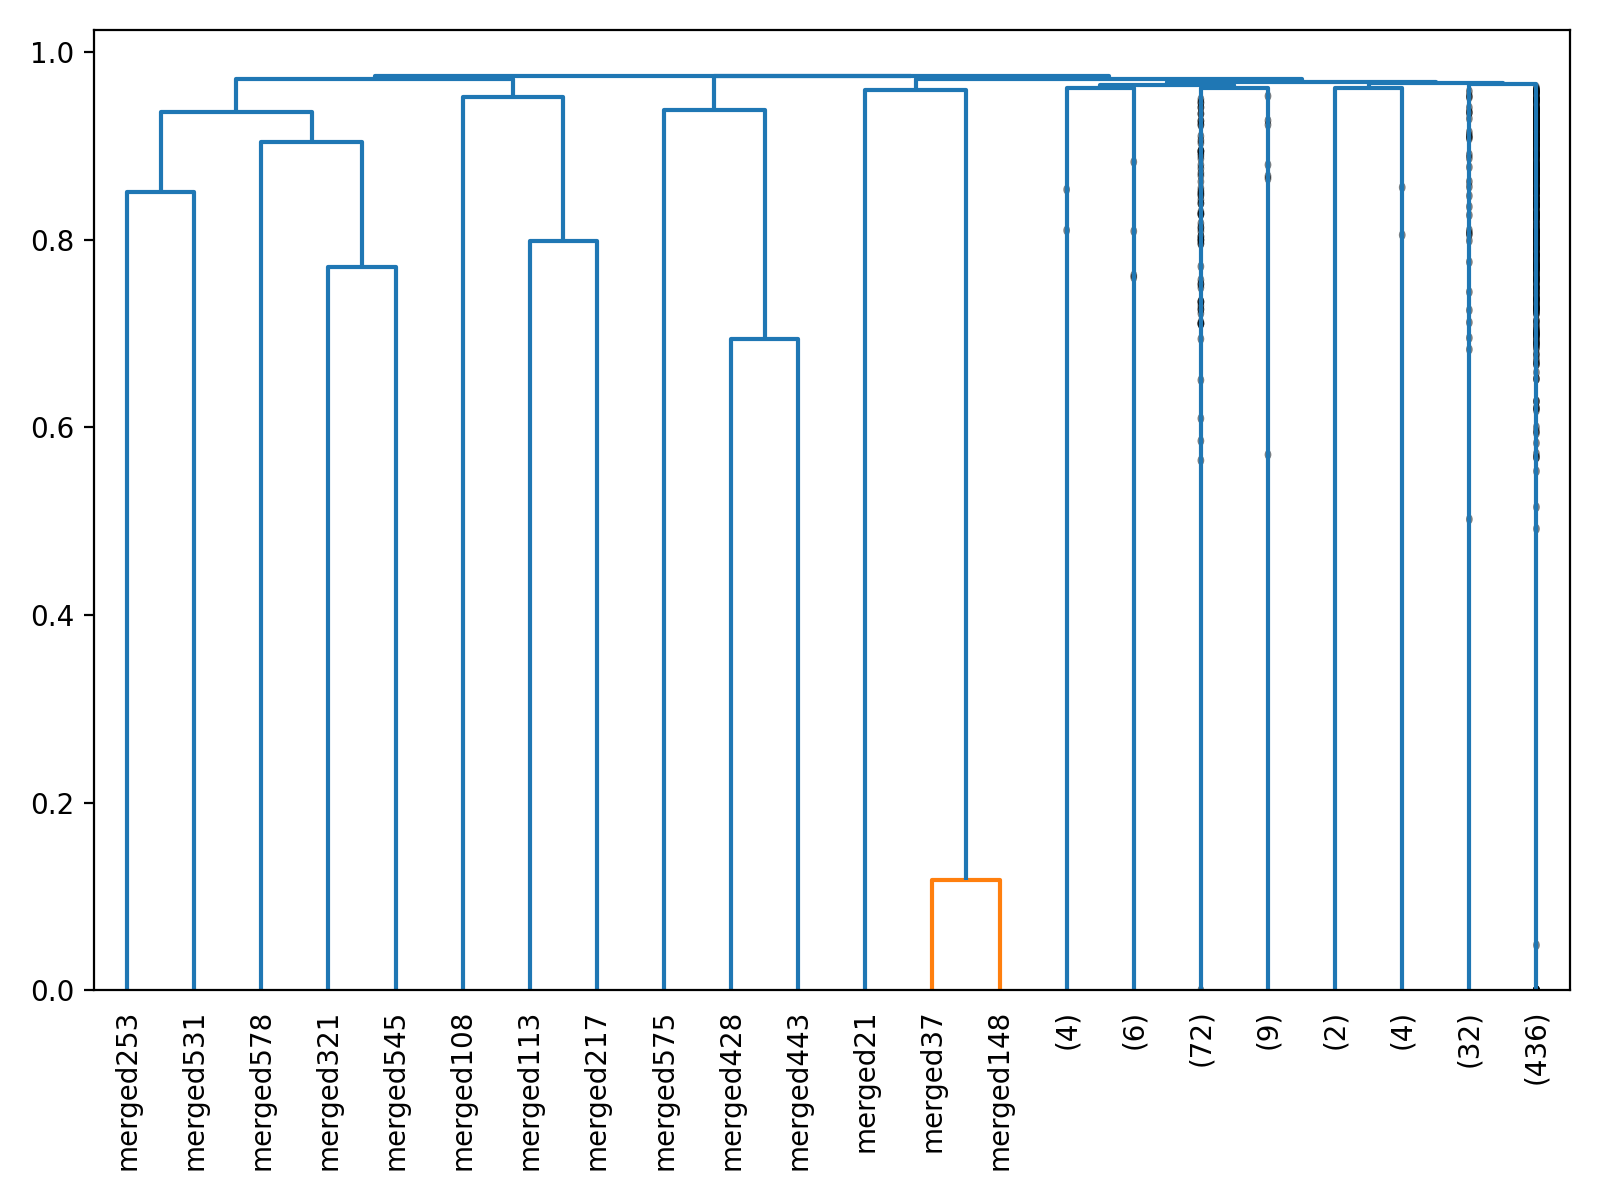
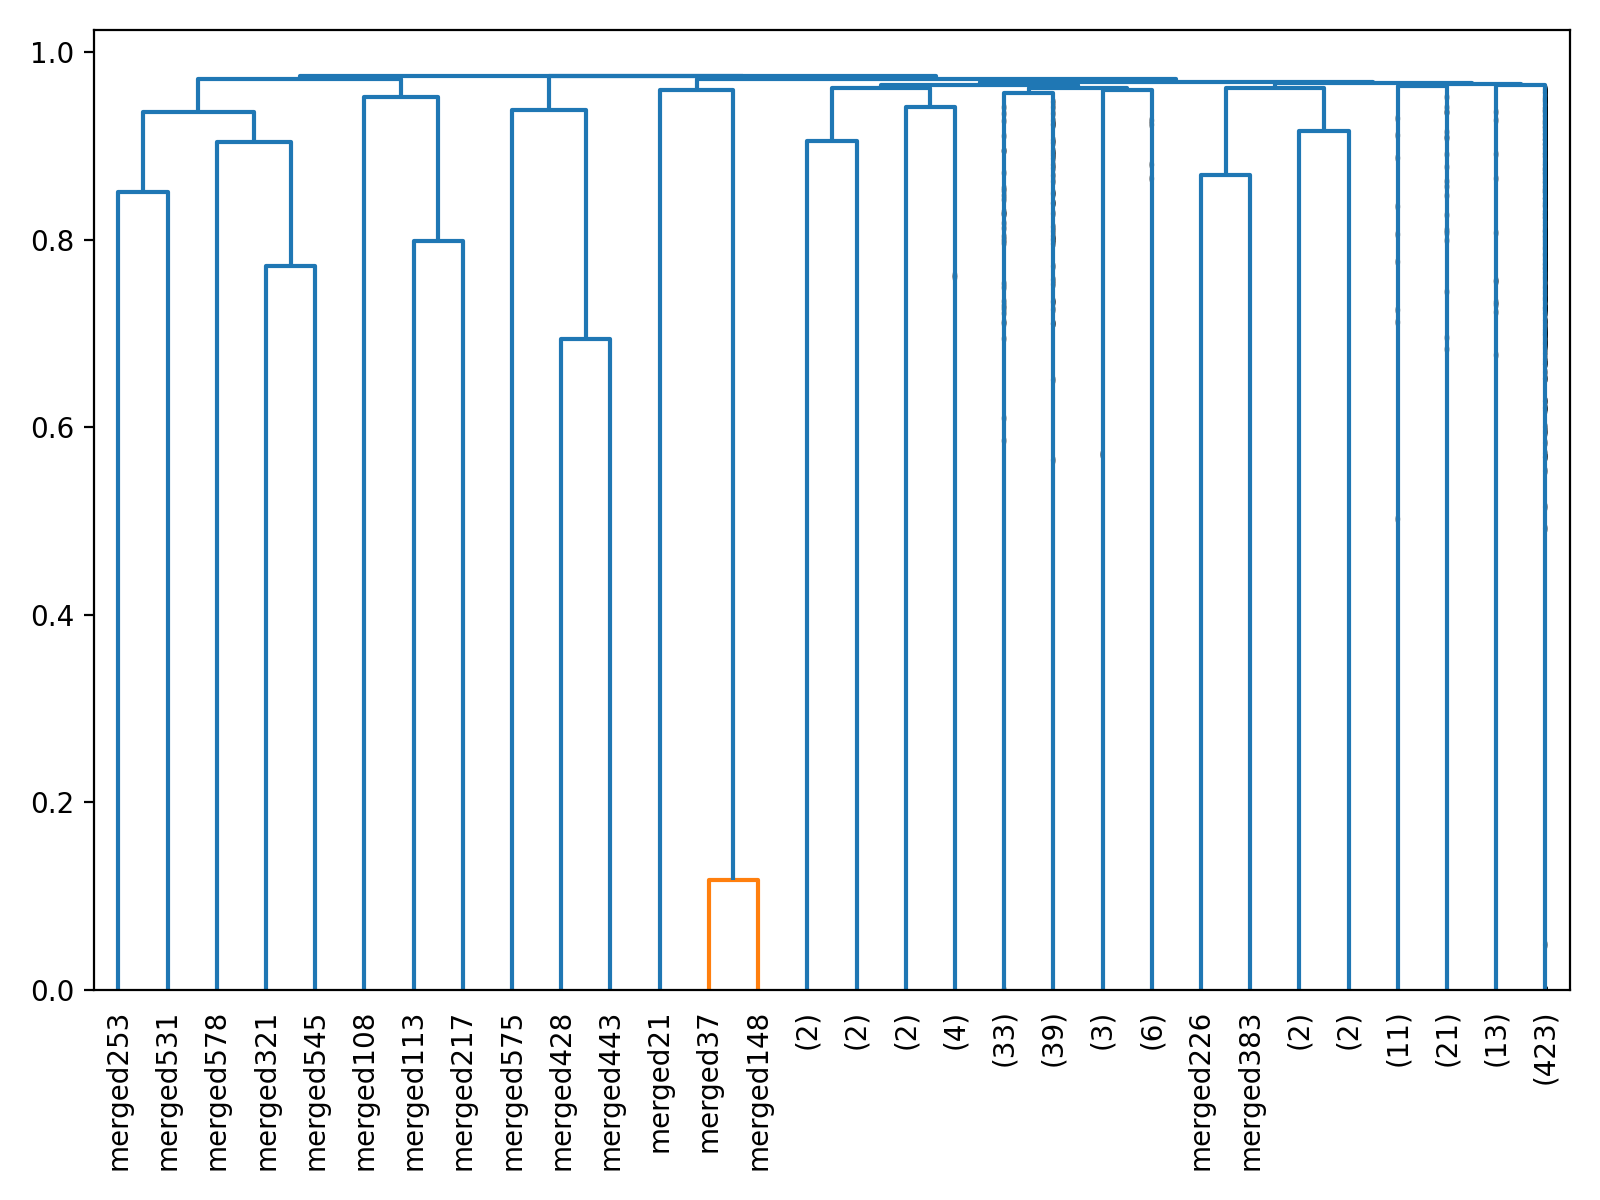
Nivel 6 de profundidad

Changed region(s): [[0.0625, 0.0617, 0.9688, 0.9867], [0.25, 0.185, 0.2812, 0.2158], [0.125, 0.0617, 0.1562, 0.0925]]

diff --git a/utils/clustering/run_all.py b/utils/clustering/run_all.py
@@ -89,9 +89,9 @@ def main():
     keys, vectorizer, X = vectorize_texts(clean_pairs)  # Vectoriza los textos con TF-IDF
 
     # 2 Ejecuta los algoritmos de clustering jerárquico y guarda los dendrogramas
-    Z_avg, coph_avg = run_average_linkage(X, keys, out_dir, p=5, max_label_len=60, orientation="top")  # Average linkage
-    Z_comp, coph_comp = run_complete_linkage(X, keys, out_dir, p=5, max_label_len=60, orientation="top")  # Complete linkage
-    Z_ward, coph_ward, svd = run_ward(X, keys, out_dir, n_components=2, p=5, max_label_len=60, orientation="top")  # Ward linkage
+    Z_avg, coph_avg = run_average_linkage(X, keys, out_dir, p=6, max_label_len=60, orientation="top")  # Average linkage
+    Z_comp, coph_comp = run_complete_linkage(X, keys, out_dir, p=6, max_label_len=60, orientation="top")  # Complete linkage
+    Z_ward, coph_ward, svd = run_ward(X, keys, out_dir, n_components=2, p=6, max_label_len=60, orientation="top")  # Ward linkage
 
     # 3 Evalúa la calidad de los clusters usando silhouette para k en 2..8 (robusto contra NaNs)
     k_range = list(range(2, 9))  # Rango de valores de k a probar
